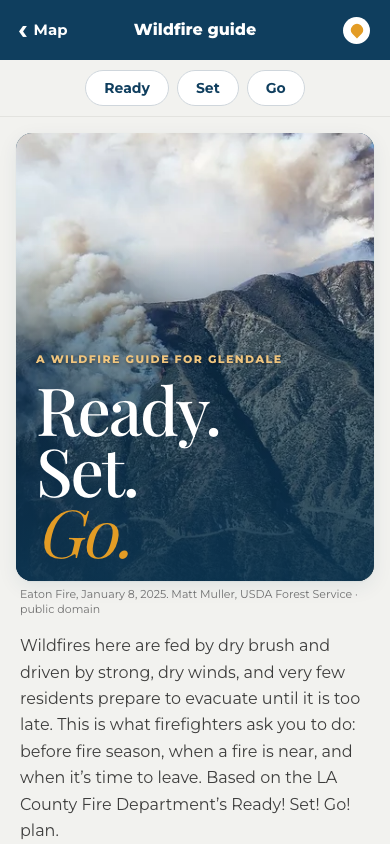
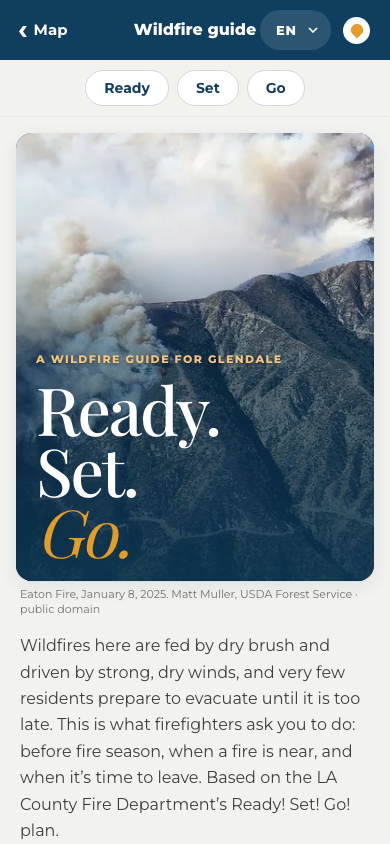
docs: recapture /prepare at main ae0c994; correct Vercel deployment status
Screenshots retaken from a local production build of main at ae0c994
(PR 23 language select now visible) on 2026-09-26 16:23 PDT with
scripts/capture-preview.mjs; no token, live query or private marks.
Alt text now describes only what each first-screen image shows.

Deployment status: the production deployment https://firepoint-sooty.vercel.app
was publicly reachable while signed out on 2026-09-26; the README no longer
implies a protected or unpublished deployment. It recommends Vercel
Authentication for All Deployments and a signed-out check, and keeps the
unverified shelters/routes as release blockers.

Changed region(s): [[0.6462, 0.0, 0.8615, 0.0616]]

diff --git a/README.md b/README.md
@@ -8,13 +8,13 @@ Firepoint is a planned, account-optional mobile web app for emergency awareness 
 
 ## App preview
 
-Current `/prepare` wildfire guide, captured from the production build of `main` at commit [`dffa795`](https://github.com/Astrotemporal/firepoint/commit/dffa795849cc72be6e4f2758f7b4d6b054e8cc3f) on 2026-09-26 (16:17 America/Los_Angeles) with `scripts/capture-preview.mjs`. No Mapbox token was configured, no live source was queried, and no private marks or keys appear. The photos are public-domain US government works credited on the page.
+Current `/prepare` wildfire guide, captured from the production build of `main` at commit [`ae0c994`](https://github.com/Astrotemporal/firepoint/commit/ae0c994) on 2026-09-26 (16:23 America/Los_Angeles) with `scripts/capture-preview.mjs`. No Mapbox token was configured, no live source was queried, and no private marks or keys appear. The photos are public-domain US government works credited on the page.
 
 | Phone (390×844, first screen) | Desktop (1440×900, first screen) |
 | --- | --- |
-| ![Firepoint /prepare on a phone: a navy app bar with a Map back link and Wildfire guide title, Ready/Set/Go chips, a Ready. Set. Go. cover photo of the Eaton Fire, an intro paragraph, an orange "In danger? Call 911" card with Check your zone and Sign up for Glendale Alerts links, and an Inside list of the three chapters](docs/preview/prepare-mobile-first-screen.png) | ![Firepoint /prepare on a desktop browser: the same wildfire guide laid out as one centered phone-width column under a full-width navy app bar, showing the cover photo, intro, "In danger? Call 911" card and chapter list](docs/preview/prepare-desktop-first-screen.png) |
+| ![Firepoint /prepare on a phone: a navy app bar with a Map back link, the title Wildfire guide, an EN language select and a theme toggle; Ready, Set and Go chips; a cover photo of the Eaton Fire captioned A wildfire guide for Glendale with the words Ready. Set. Go.; a USDA Forest Service public-domain credit; and the opening paragraph about dry brush, strong winds and the LA County Fire Department plan](docs/preview/prepare-mobile-first-screen.png) | ![Firepoint /prepare on a desktop browser: the same wildfire guide as one centered phone-width column under a full-width navy app bar with a Map back link, the title Wildfire guide, an EN language select and a theme toggle; Ready, Set and Go chips; the Eaton Fire cover photo with Ready. Set. Go.; the opening paragraph; and the top edge of the orange In danger? Call 911 card](docs/preview/prepare-desktop-first-screen.png) |
 
-The two images above are the first viewport (top 844 px / top 900 px) of the full-page captures the script writes: [`docs/preview/mobile.png`](docs/preview/mobile.png) (390×11474) and [`docs/preview/desktop.png`](docs/preview/desktop.png) (1440×9903). The full pages continue through the Ready, Set and Go chapters and the official-sources list. These are snapshots of static guide text, not a live status.
+The two images above are the first viewport (top 844 px / top 900 px) of the full-page captures the script writes: [`docs/preview/mobile.png`](docs/preview/mobile.png) (390×11474) and [`docs/preview/desktop.png`](docs/preview/desktop.png) (1440×9903). The full pages continue through the "In danger? Call 911" card with the zone-check and Glendale Alerts links, the chapter list, the Ready, Set and Go chapters and the official-sources list. The guide is also available in Spanish and Eastern Armenian through the language select (PR #23); the captures show English. These are snapshots of static guide text, not a live status.
 
 [The preview workflow](.github/workflows/preview.yml) runs the same script on PRs and `main` pushes and uploads the PNGs as **read-only, 14-day GitHub Actions artifacts** (`firepoint-preview`). It does not push bot commits to `main`, load the Mapbox home, or query live sources. Checked-in PNGs are refreshed by hand in a reviewed PR and may lag `main`; the commit SHA above says which build they show.
 
@@ -48,7 +48,7 @@ npm run build
 
 The `Makefile` also has `make gis-fetch`/`make gis-local` developer-only MCP steps. GitHub Actions runs these four web checks for PRs and `main` pushes, with no secret-dependent source calls. Report the result of each command separately. Lint, typecheck, tests, and build do not establish agency source coverage or operational readiness.
 
-**Deployment status.** A Vercel project is connected to this repository through the Vercel GitHub integration; `vercel[bot]` builds a Preview deployment for each PR and a Production deployment for `main`. Deployment Protection is on, so the deployment URLs require Vercel authentication and are not a public site. No production URL is published here. A deployment that builds is a development deployment, not an operational emergency service, and the release gates above (paused source queries, unverified shelters and routes) still apply. `main` currently has no GitHub branch protection or ruleset; PR #20 recommends adding one.
+**Deployment status.** A Vercel project is connected to this repository through the Vercel GitHub integration; `vercel[bot]` builds a Preview deployment for each PR and a Production deployment for `main`. The current production deployment is <https://firepoint-sooty.vercel.app>. On 2026-09-26 it was reachable **publicly** without signing in (teammates confirmed HTTP 200 on `/` and `/prepare` while signed out; a later check saw a redirect to Vercel sign-in, so the setting was changing). Treat it as a **development deployment that may be public**, not an operational emergency service: it still ships the unverified shelter list, the stub hazard feed and app-computed routes, which remain public-release blockers, and its source queries are paused. Recommended now: in Vercel, Settings → Deployment Protection → Vercel Authentication → **All Deployments** (previews and production), then confirm the production URL asks for sign-in in a signed-out browser, and repeat that check after every settings change. Per-commit `*-ex-ars.vercel.app` URLs redirecting to Vercel SSO do not prove the production alias is protected. `main` currently has no GitHub branch protection or ruleset; PR #20 recommends adding one.
 
 ## Plan and working agreements
 
